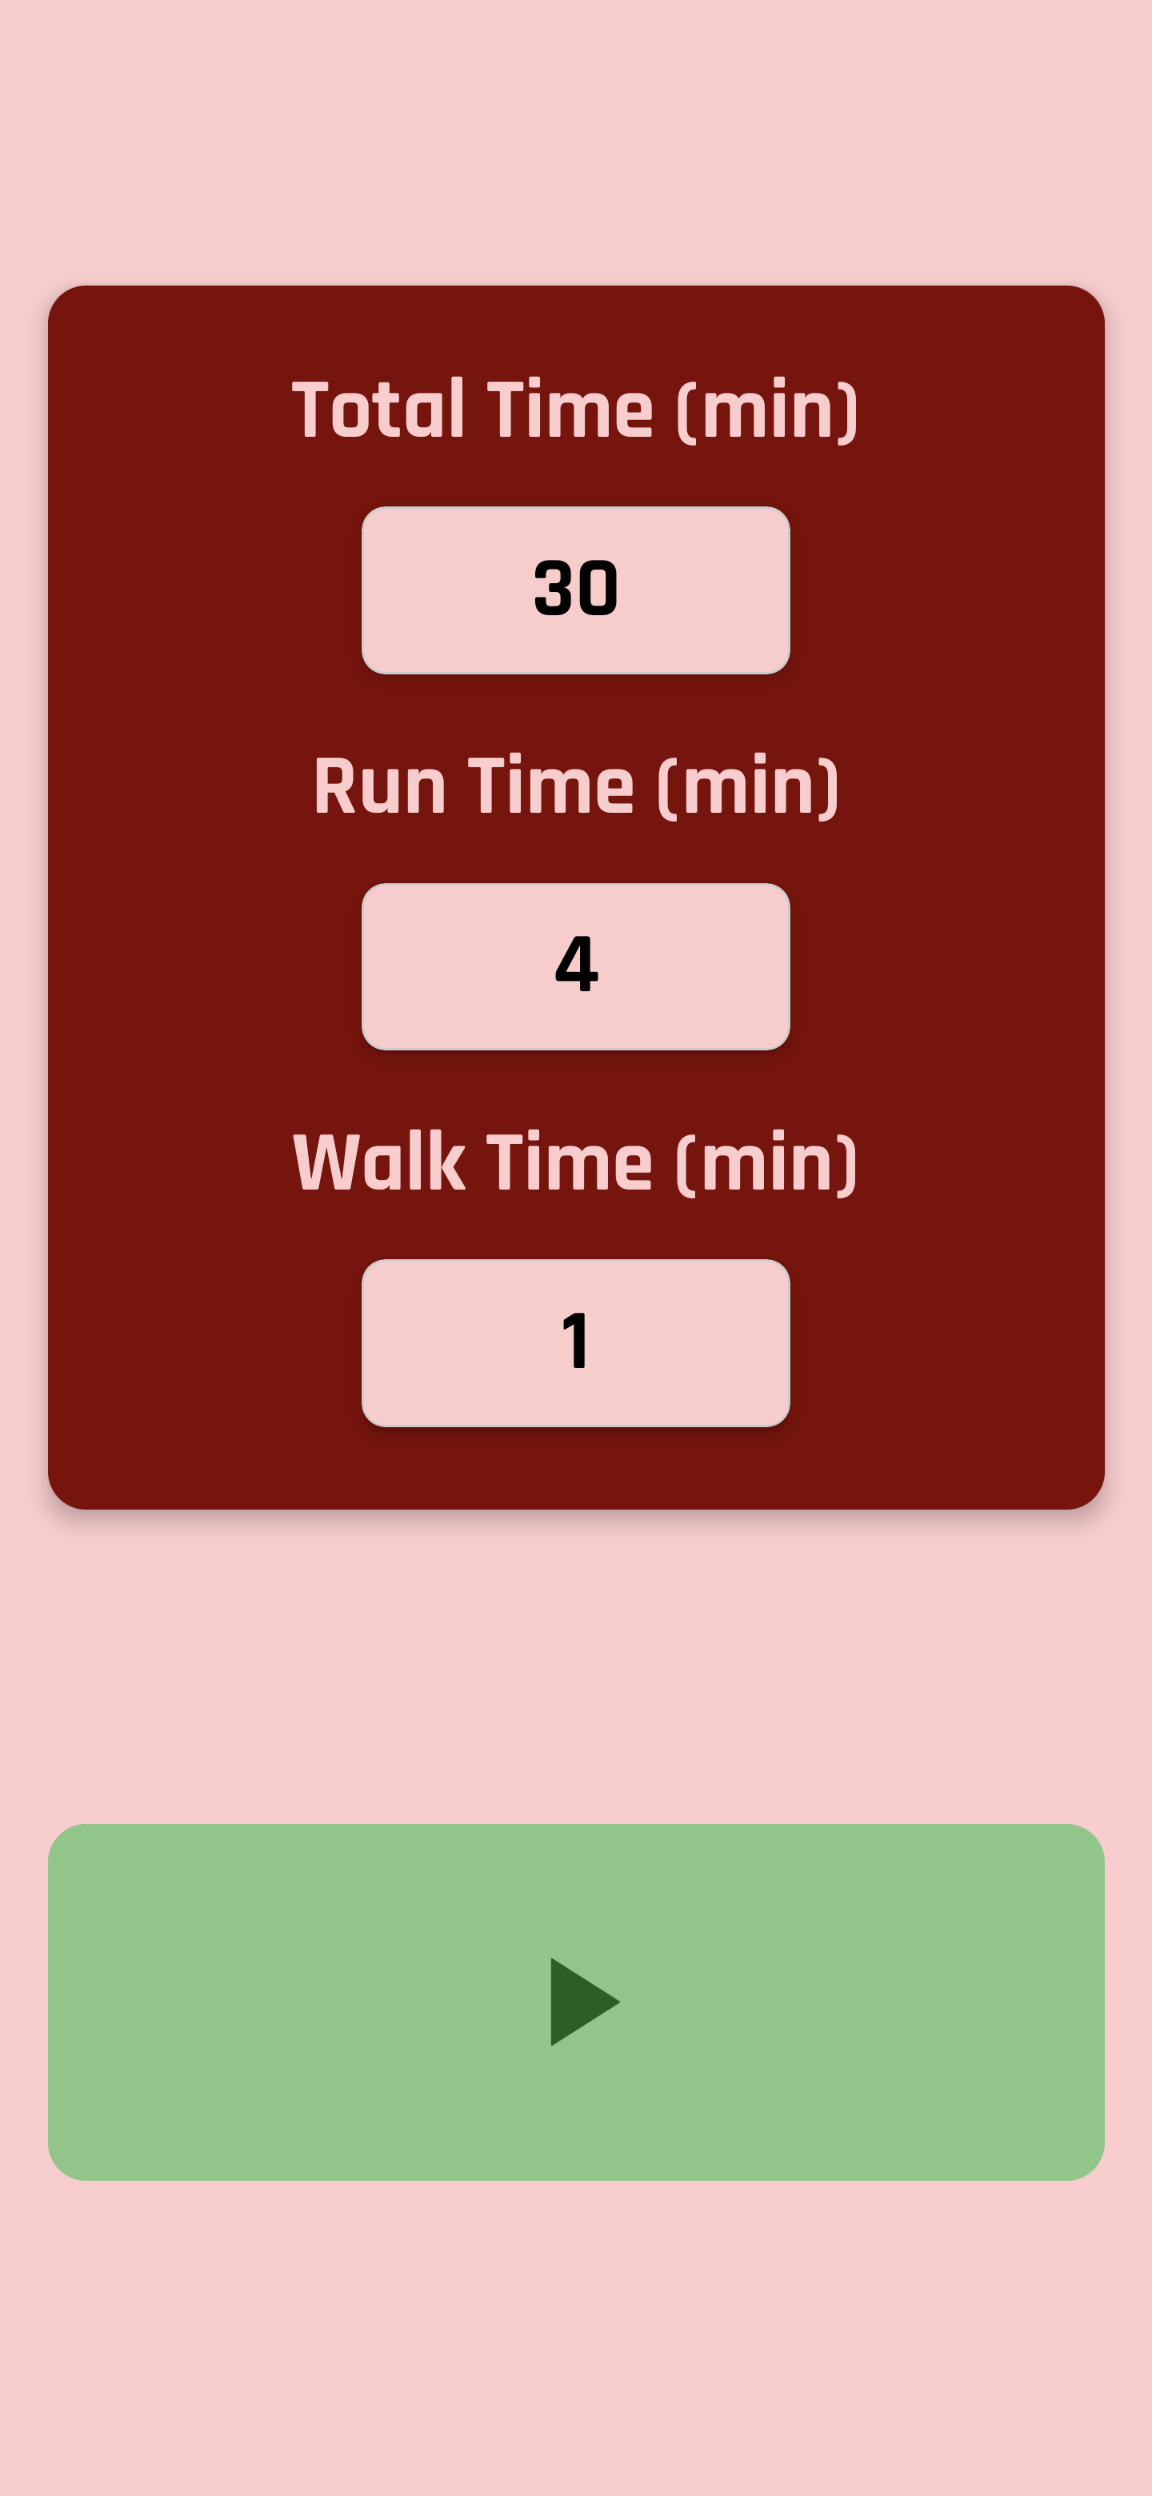
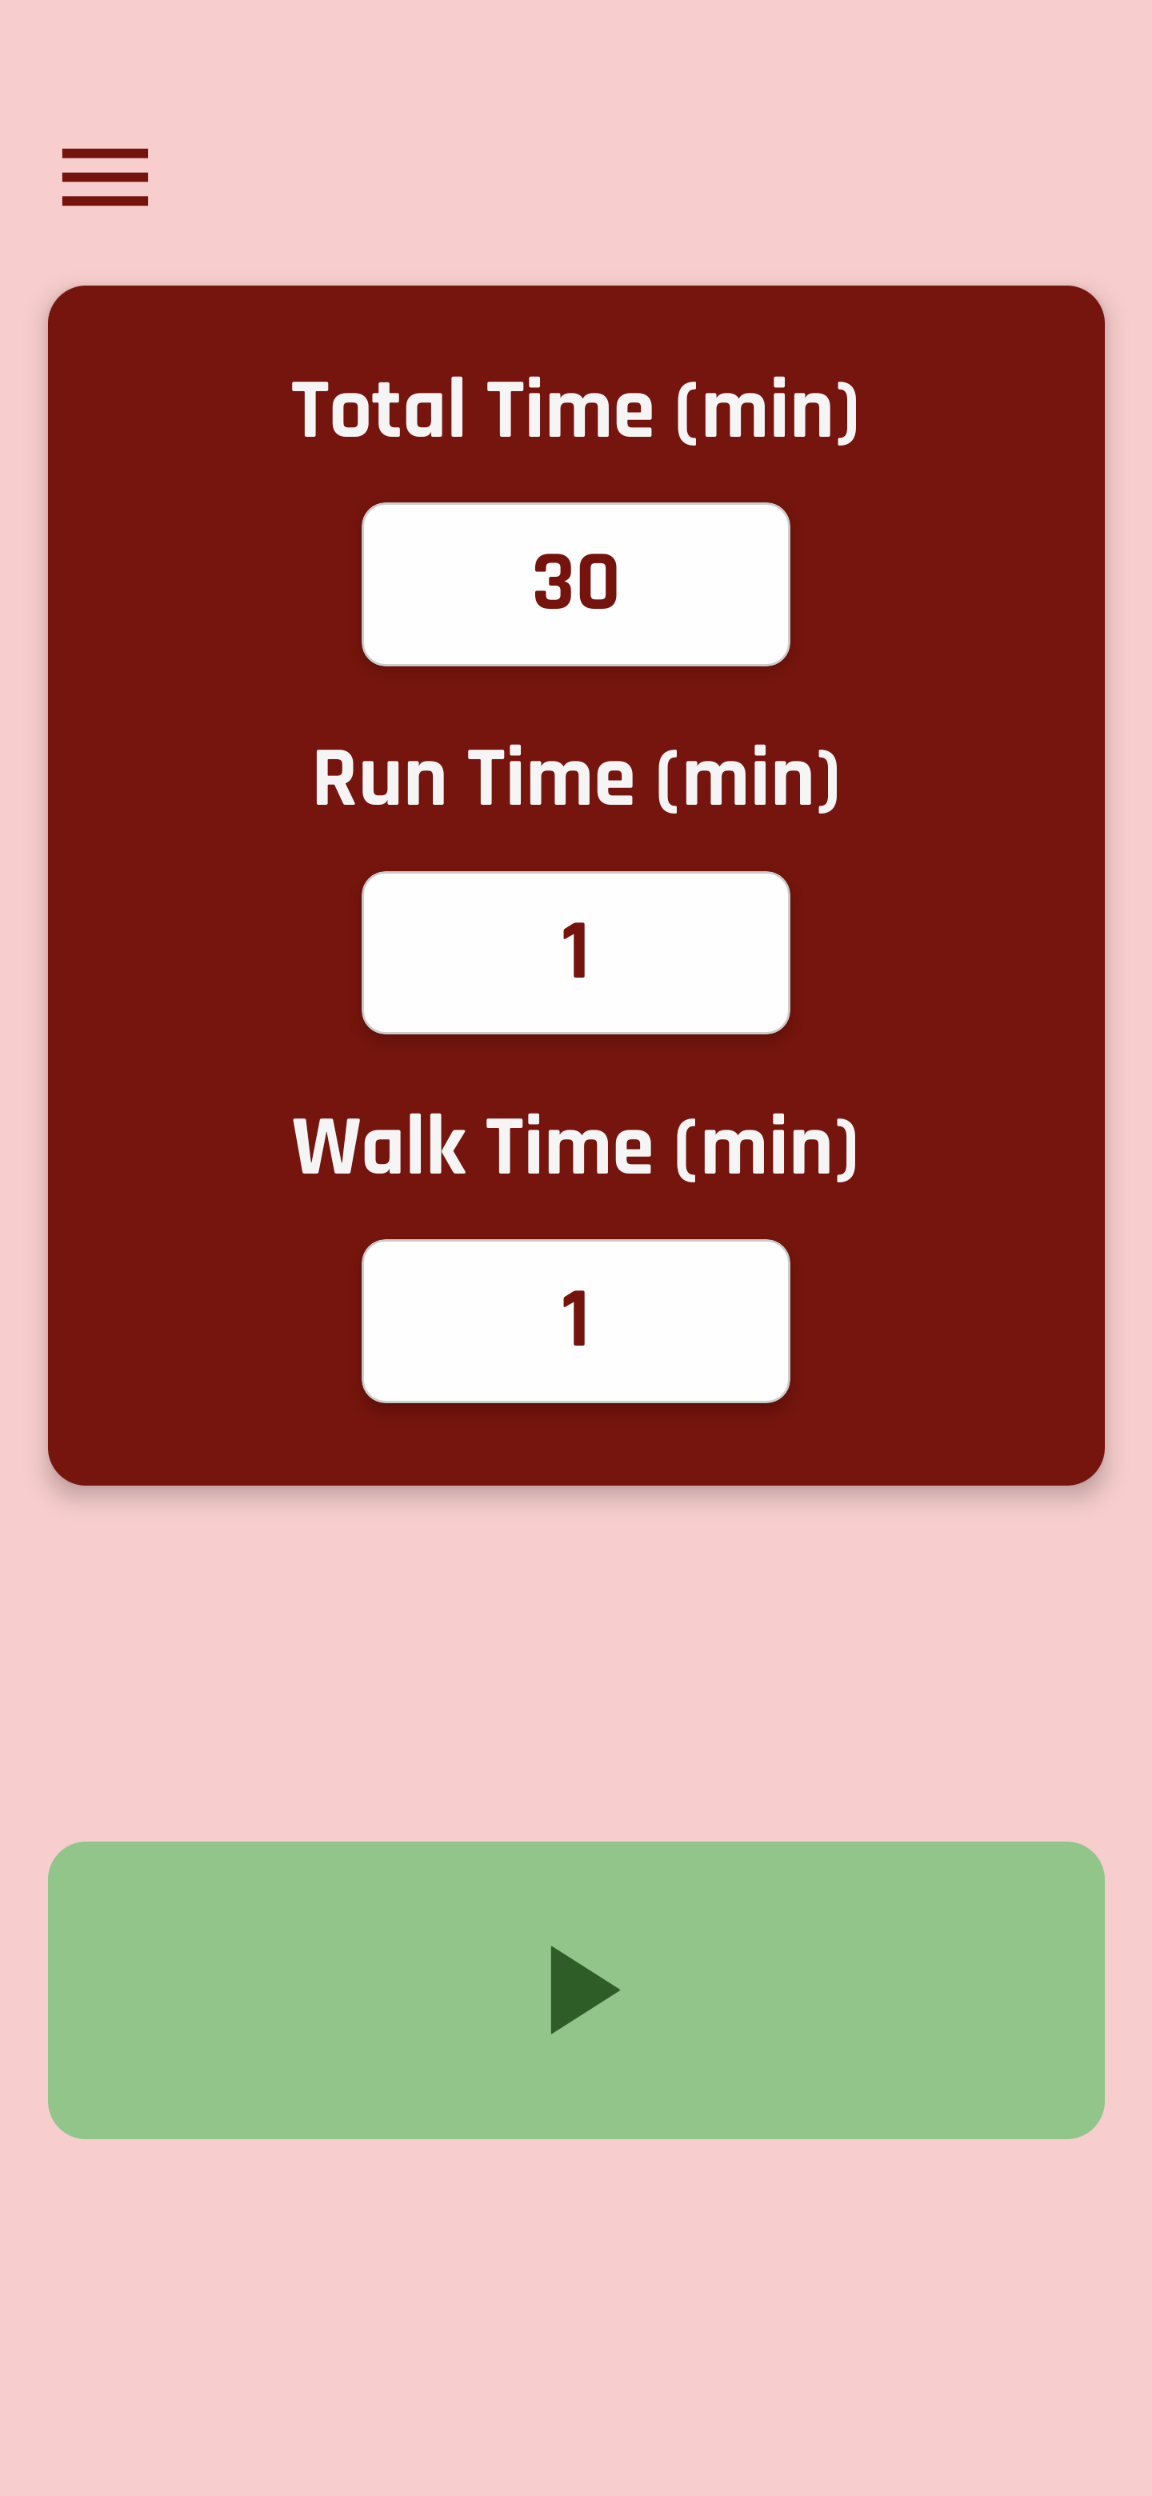
Updated README

diff --git a/README.md b/README.md
@@ -1,19 +1,21 @@
 # CardioSplit Timer
 
-**CardioSplit Timer** is a customizable interval timer designed for running/walking routines. Built in React Native with Expo, it features audio and haptic feedback, visual cues, and lock protection to prevent accidental taps.
+**CardioSplit Timer** is a fully customizable interval timer for alternating between running and walking. Built in React Native with Expo, it includes visual countdowns, audio cues, vibration feedback, theme selection, persistent settings, and a lock system to prevent accidental taps.
 
 ---
 
 ## Features
 
 * **Custom Intervals:** Set total workout time, run time, and walk time.
-* **Pre-Start Countdown:** "Ready / Set / Go" phase with sound cues.
-* **Visual Timer:** Displays current interval type and countdown.
-* **Elapsed Time Display:** Tracks total time in-session.
-* **Audio Feedback:** Plays beeps for countdowns and switches.
-* **Vibration Cues:** Different buzz patterns for Run and Walk.
-* **Lock Protection:** Pause/Stop buttons are hidden unless unlocked with a long-press.
-* **Responsive Design:** Modern UI with color-coded states and shadows.
+* **Pre-Start Countdown:** A "Ready / Set / Go" intro sequence with sound cues.
+* **Live Timer:** Clearly displays current interval type and countdown.
+* **Elapsed Time Tracking:** Shows both total elapsed time and run-only time.
+* **Theme Customization:** Choose from multiple color themes (light, dark, and high-visibility).
+* **Persistent Settings:** Remembers your last-used theme and interval settings.
+* **Audio Feedback:** Beeps for interval switches and countdown warnings.
+* **Vibration Cues:** Custom buzz patterns for run and walk transitions.
+* **Accidental Tap Protection:** Lock/Unlock system prevents accidental presses.
+* **Responsive Layout:** Smooth transitions, shadows, and color-coded backgrounds for each phase (for main theme only).
 
 ---
 
@@ -54,12 +56,9 @@ eas build --platform android --profile preview
 
 ---
 
-## Planned Features
+## What's Next
 
-* Workout history saved to local storage (SQLite)
-* Sync to Google Fit
-* Visual animations for transitions and countdowns
-* Optional music player integration
+Additional features like Google Fit syncing, notification widgets, and background services will be explored in a future native (ejected) version of this app.
 
 ---
 
@@ -79,3 +78,9 @@ MIT License
 
 ### Walk Screen
 <img src="screenshots/walk-timer.png" alt="Walk Screen" width="300" />
+
+### Dark Theme
+<img src="screenshots/home-dark.png" alt="Dark Theme" width="300" />
+
+### High-Visibility Theme
+<img src="screenshots/home-light.png" alt="High-Visibility Theme" width="300" />
